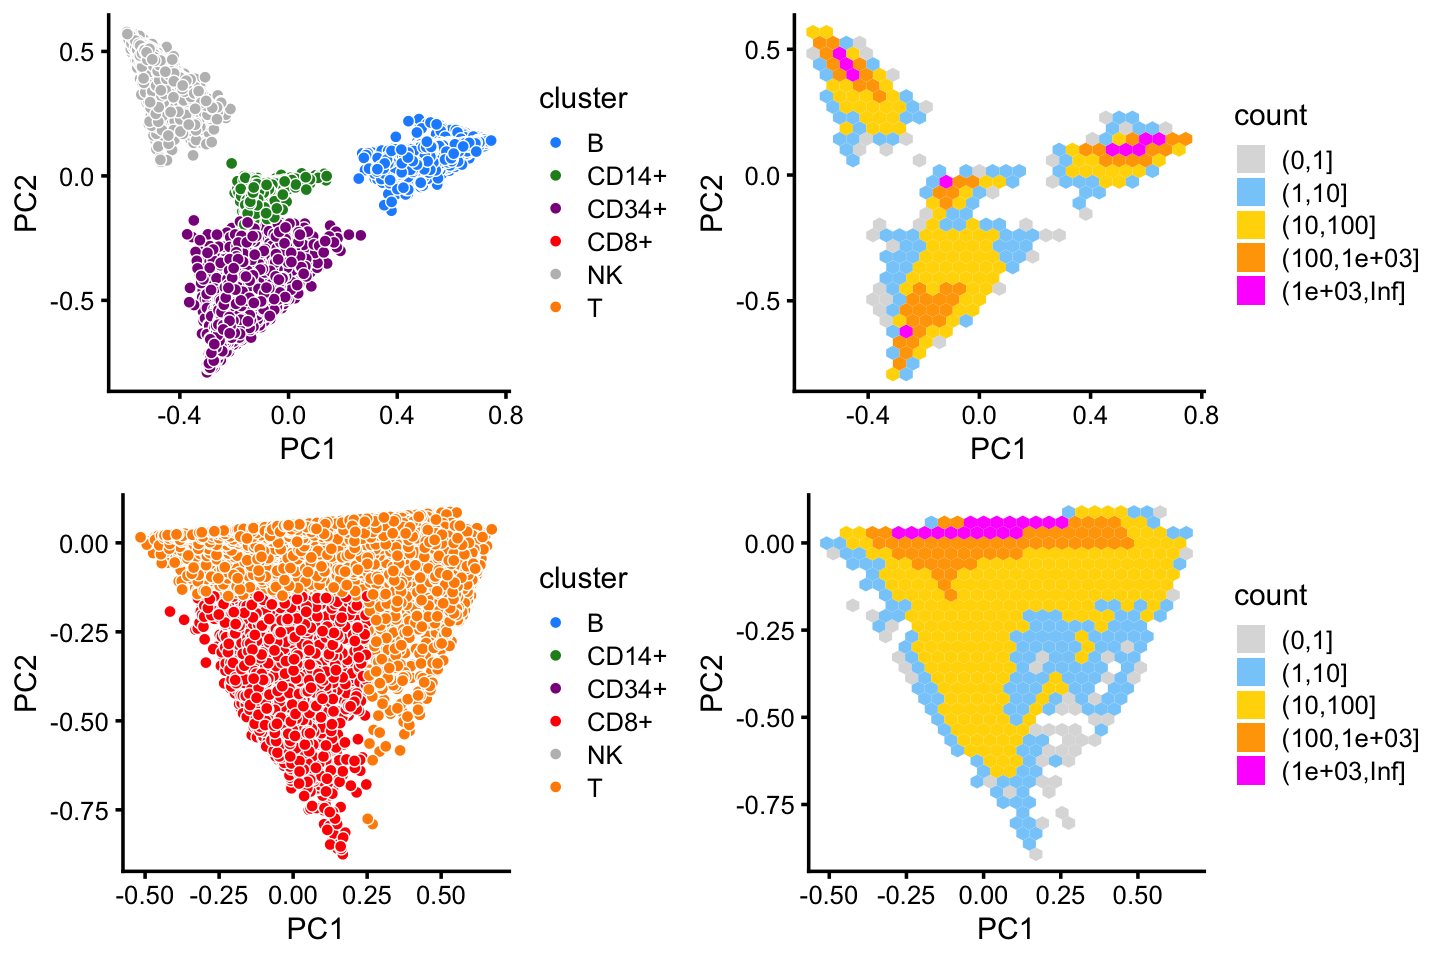
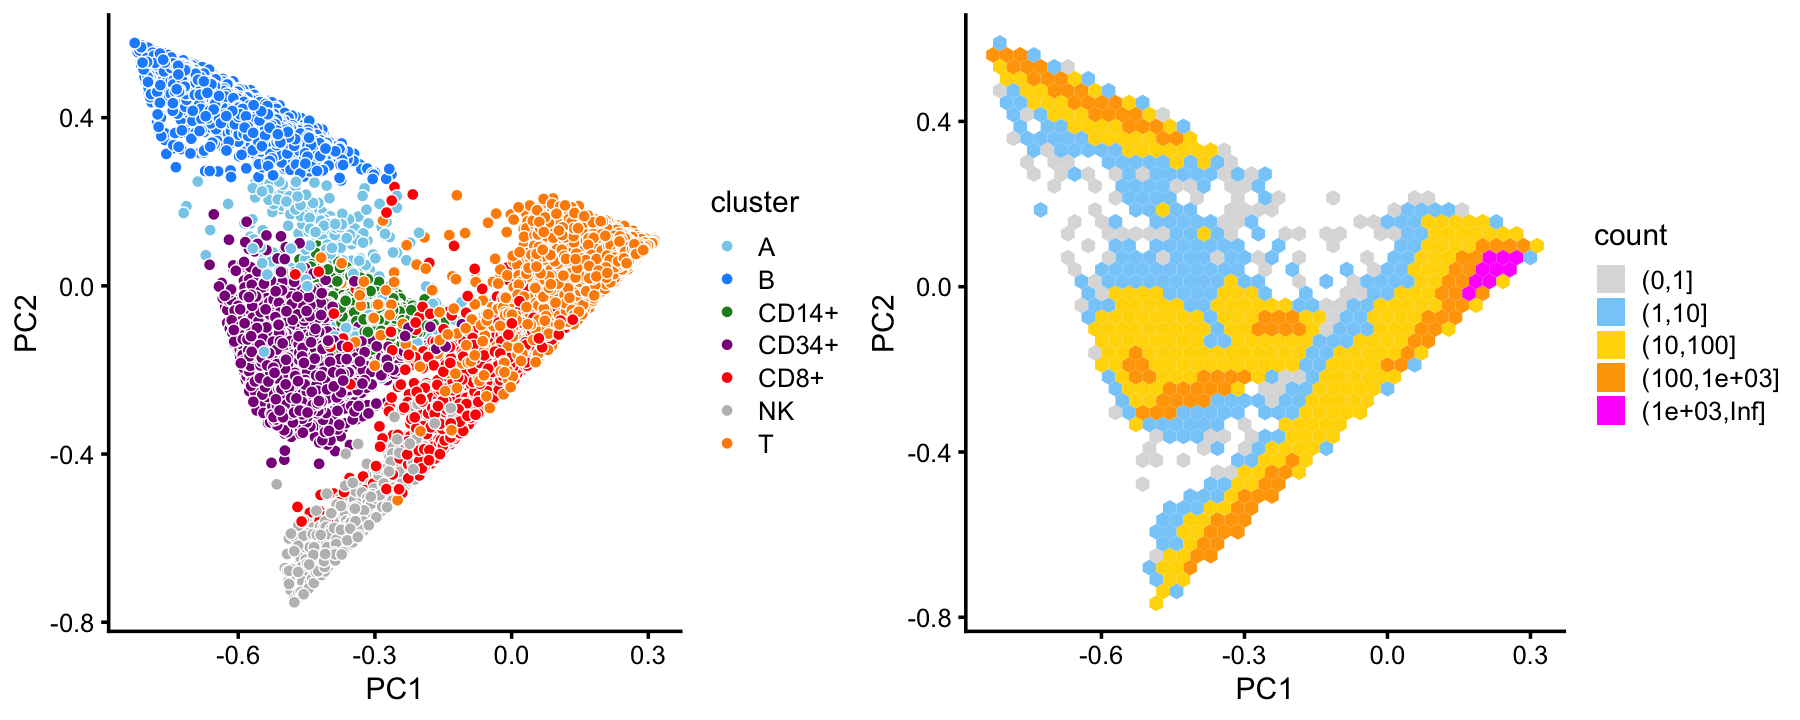
Added a cluster to the purified PBMC clustering.

diff --git a/docs/clusters_purified_pbmc.html b/docs/clusters_purified_pbmc.html
@@ -323,7 +323,7 @@ $(document).ready(function () {
 <div class="tab-content">
 <div id="summary" class="tab-pane fade in active">
 <p>
-<strong>Last updated:</strong> 2020-11-23
+<strong>Last updated:</strong> 2020-11-26
 </p>
 <p>
 <strong>Checks:</strong> <span class="glyphicon glyphicon-ok text-success" aria-hidden="true"></span> 7 <span class="glyphicon glyphicon-exclamation-sign text-danger" aria-hidden="true"></span> 0
@@ -414,16 +414,16 @@ This reproducible <a href="http://rmarkdown.rstudio.com">R Markdown</a> analysis
 <div class="panel panel-default">
 <div class="panel-heading">
 <p class="panel-title">
-<a data-toggle="collapse" data-parent="#workflowr-checks" href="#strongRepositoryversionstrongahrefhttpsgithubcomstephenslabsinglecelltopicstree9389b774ce058e238f6c96110c4969564e14db34targetblank9389b77a"> <span class="glyphicon glyphicon-ok text-success" aria-hidden="true"></span> <strong>Repository version:</strong> <a href="https://github.com/stephenslab/single-cell-topics/tree/9389b774ce058e238f6c96110c4969564e14db34" target="_blank">9389b77</a> </a>
+<a data-toggle="collapse" data-parent="#workflowr-checks" href="#strongRepositoryversionstrongahrefhttpsgithubcomstephenslabsinglecelltopicstree989e7ac79196a3cd999d035e9c34d3c9bb48e2c7targetblank989e7aca"> <span class="glyphicon glyphicon-ok text-success" aria-hidden="true"></span> <strong>Repository version:</strong> <a href="https://github.com/stephenslab/single-cell-topics/tree/989e7ac79196a3cd999d035e9c34d3c9bb48e2c7" target="_blank">989e7ac</a> </a>
 </p>
 </div>
[2 lines of base64/hex data omitted]
 <div class="panel-body">
 <p>
 Great! You are using Git for version control. Tracking code development and connecting the code version to the results is critical for reproducibility.
 </p>
 <p>
-The results in this page were generated with repository version <a href="https://github.com/stephenslab/single-cell-topics/tree/9389b774ce058e238f6c96110c4969564e14db34" target="_blank">9389b77</a>. See the <em>Past versions</em> tab to see a history of the changes made to the R Markdown and HTML files.
+The results in this page were generated with repository version <a href="https://github.com/stephenslab/single-cell-topics/tree/989e7ac79196a3cd999d035e9c34d3c9bb48e2c7" target="_blank">989e7ac</a>. See the <em>Past versions</em> tab to see a history of the changes made to the R Markdown and HTML files.
 </p>
 <p>
 Note that you need to be careful to ensure that all relevant files for the analysis have been committed to Git prior to generating the results (you can use <code>wflow_publish</code> or <code>wflow_git_commit</code>). workflowr only checks the R Markdown file, but you know if there are other scripts or data files that it depends on. Below is the status of the Git repository when the results were generated:
@@ -444,6 +444,13 @@ Ignored files:
     Ignored:    output/pulseseq/diff-count-pulseseq.RData
     Ignored:    output/pulseseq/fits-pulseseq.RData
     Ignored:    output/pulseseq/rds/
+
+Untracked files:
+    Untracked:  analysis/clustering-pbmc-purified.rds
+    Untracked:  analysis/diff-count-pbmc-purified.RData
+
+Unstaged changes:
+    Modified:   analysis/plots_for_paper_pbmc_purified.R
 
 </code></pre>
 <p>
@@ -482,6 +489,40 @@ Message
 </tr>
 </thead>
 <tbody>
+<tr>
+<td>
+Rmd
+</td>
+<td>
+<a href="https://github.com/stephenslab/single-cell-topics/blob/989e7ac79196a3cd999d035e9c34d3c9bb48e2c7/analysis/clusters_purified_pbmc.Rmd" target="_blank">989e7ac</a>
+</td>
+<td>
+Peter Carbonetto
+</td>
+<td>
+2020-11-26
+</td>
+<td>
+workflowr::wflow_publish(“clusters_purified_pbmc.Rmd”)
+</td>
+</tr>
+<tr>
+<td>
+html
+</td>
+<td>
+<a href="https://rawcdn.githack.com/stephenslab/single-cell-topics/c85de93a4e651b0cdf7ce12b1417690a49120e0b/docs/clusters_purified_pbmc.html" target="_blank">c85de93</a>
+</td>
+<td>
+Peter Carbonetto
+</td>
+<td>
+2020-11-23
+</td>
+<td>
+Build site.
+</td>
+</tr>
 <tr>
 <td>
 Rmd
@@ -739,7 +780,7 @@ pc5 &lt;- pca[,5]
 x[pc2 &gt; 0.25] &lt;- &quot;B&quot;
 x[pc3 &lt; -0.2 &amp; pc4 &lt; 0.2] &lt;- &quot;CD34+&quot;
 x[(pc4 + 0.1)^2 + (pc5 - 0.8)^2 &lt; 0.07] &lt;- &quot;CD14+&quot;</code></pre>
-<p>Next, we define an NK cells cluster from the top 2 PCs of the topic proportions in the U (“unknown”) cells.</p>
+<p>Next, we define an NK cells cluster from the top 2 PCs of the topic proportions in the U cluster.</p>
 <pre class="r"><code>rows &lt;- which(x == &quot;U&quot;)
 n    &lt;- length(rows)
 fit2 &lt;- select(poisson2multinom(fit),loadings = rows)
@@ -747,7 +788,10 @@ pca  &lt;- prcomp(fit2$L)$x
 y    &lt;- rep(&quot;U&quot;,n)
 pc1  &lt;- pca[,1]
 pc2  &lt;- pca[,2]
+pc3  &lt;- pca[,3]
+pc4  &lt;- pca[,4]
 y[pc1 &lt; -0.3 &amp; 1.1*pc1 &lt; -pc2 - 0.57] &lt;- &quot;NK&quot;
+y[pc3 &gt; 0.4 &amp; pc4 &lt; 0.2] &lt;- &quot;A&quot;
 x[rows] &lt;- y</code></pre>
 <p>Among the remaining cells, we define a much less distinct cluster of CD8+ cells. The rest are labeled as T-cells.</p>
 <pre class="r"><code>rows &lt;- which(x == &quot;U&quot;)
@@ -759,25 +803,21 @@ pc1  &lt;- pca[,1]
 pc2  &lt;- pca[,2]
 y[pc1 &lt; 0.25 &amp; pc2 &lt; -0.15] &lt;- &quot;CD8+&quot;
 x[rows] &lt;- y</code></pre>
-<p>In summary, we have subdivided the cells into 6 subsets. The substructure becomes more clear when we plot T cells separately from the other cells.</p>
-<pre class="r"><code>cluster_colors &lt;- c(&quot;dodgerblue&quot;,&quot;forestgreen&quot;,&quot;darkmagenta&quot;,
-                    &quot;red&quot;,&quot;gray&quot;,&quot;darkorange&quot;)
+<p>In summary, we have subdivided the cells into 7 subsets. The substructure becomes more clear when we plot T cells separately from the other cells.</p>
+<pre class="r"><code>cluster_colors &lt;- c(&quot;skyblue&quot;,     # A
+                    &quot;dodgerblue&quot;,  # B-cells
+                    &quot;forestgreen&quot;, # CD14+
+                    &quot;darkmagenta&quot;, # CD34+ 
+                    &quot;red&quot;,         # CD8+
+                    &quot;gray&quot;,        # NK
+                    &quot;darkorange&quot;)  # T-cells
 samples$cluster &lt;- factor(x)
-x     &lt;- with(samples,cluster == &quot;T&quot; | cluster == &quot;CD8+&quot;)
-rows1 &lt;- which(!x)
-rows2 &lt;- which(x)
-p1 &lt;- pca_plot(select(poisson2multinom(fit),loadings = rows1),
-               fill = samples$cluster[rows1]) +
-  scale_fill_manual(values = cluster_colors,drop = FALSE) +
+p1 &lt;- pca_plot(poisson2multinom(fit),fill = samples$cluster) +
+  scale_fill_manual(values = cluster_colors) +
   labs(fill = &quot;cluster&quot;)
-p2 &lt;- pca_plot(select(poisson2multinom(fit),loadings = rows2),
-               fill = samples$cluster[rows2,drop = FALSE]) +
-  scale_fill_manual(values = cluster_colors,drop = FALSE) +
-  labs(fill = &quot;cluster&quot;)
-p3 &lt;- pca_hexbin_plot(select(poisson2multinom(fit),loadings = rows1),bins = 28)
-p4 &lt;- pca_hexbin_plot(select(poisson2multinom(fit),loadings = rows2),bins = 28)
-plot_grid(p1,p3,p2,p4,nrow = 2,ncol = 2,rel_widths = c(10,11))</code></pre>
-<p><img src="figure/clusters_purified_pbmc.Rmd/clustering-4-1.png" width="720" style="display: block; margin: auto;" /></p>
+p2 &lt;- pca_hexbin_plot(poisson2multinom(fit))
+plot_grid(p1,p2,rel_widths = c(10,11))</code></pre>
+<p><img src="figure/clusters_purified_pbmc.Rmd/clustering-4-1.png" width="900" style="display: block; margin: auto;" /></p>
 <p>
 <button type="button" class="btn btn-default btn-xs btn-workflowr btn-workflowr-fig" data-toggle="collapse" data-target="#fig-clustering-4-1">
 Past versions of clustering-4-1.png
@@ -818,17 +858,17 @@ Peter Carbonetto
 <p>This clustering corresponds closely to the Zheng <em>et al</em> (2017) FACS cell populations, although there are some differences—for example, the CD14+ cluster contains a large number of cells identified as CD34+ by FACS.</p>
 <pre class="r"><code>with(samples,table(celltype,cluster))
 #                               cluster
-# celltype                           B CD14+ CD34+  CD8+    NK     T
-#   CD19+ B                      10073     0     0     8     0     4
-#   CD14+ Monocyte                   8  2420     0   138     0    46
-#   CD34+                          352   536  8182   141     4    17
-#   CD4+ T Helper2                   0     0     8    49     1 11155
-#   CD56+ NK                         0     0    17    86  8279     3
-#   CD8+ Cytotoxic T                 0     0     0  3093    93  7023
-#   CD4+/CD45RO+ Memory              0     0    20   343     0  9861
-#   CD8+/CD45RA+ Naive Cytotoxic     3     0     0    53     2 11895
-#   CD4+/CD45RA+/CD25- Naive T       1     0     8    30     1 10439
-#   CD4+/CD25 T Reg                  2     0     2    25     0 10234</code></pre>
+# celltype                           A     B CD14+ CD34+  CD8+    NK     T
+#   CD19+ B                          7 10073     0     0     3     0     2
+#   CD14+ Monocyte                 156     8  2420     0     3     0    25
+#   CD34+                          121   352   536  8182    20     4    17
+#   CD4+ T Helper2                   9     0     0     8    45     1 11150
+#   CD56+ NK                         4     0     0    17    82  8279     3
+#   CD8+ Cytotoxic T                 0     0     0     0  3146    93  6970
+#   CD4+/CD45RO+ Memory              1     0     0    20   355     0  9848
+#   CD8+/CD45RA+ Naive Cytotoxic     2     3     0     0    52     2 11894
+#   CD4+/CD45RA+/CD25- Naive T       5     1     0     8    27     1 10437
+#   CD4+/CD25 T Reg                  3     2     0     2    24     0 10232</code></pre>
 <p>This close correspondence is also apparent when we layer the FACS cell population labels on the PCA plots:</p>
 <pre class="r"><code>facs_colors &lt;- c(&quot;dodgerblue&quot;,  # B-cells
                  &quot;forestgreen&quot;, # CD14+
@@ -840,16 +880,11 @@ Peter Carbonetto
                  &quot;magenta&quot;,     # naive cytotoxic 
                  &quot;darkorange&quot;,  # naive T-cells
                  &quot;gold&quot;)        # regulatory T-cells
-p1 &lt;- pca_plot(select(poisson2multinom(fit),loadings = rows1),
-               fill = samples[rows1,&quot;celltype&quot;]) +
+p3 &lt;- pca_plot(poisson2multinom(fit),fill = samples$celltype) +
   scale_fill_manual(values = facs_colors) +
   labs(fill = &quot;FACS subtype&quot;)
-p2 &lt;- pca_plot(select(poisson2multinom(fit),loadings = rows2),
-               fill = samples[rows2,&quot;celltype&quot;]) +
-  scale_fill_manual(values = facs_colors) +
-  labs(fill = &quot;FACS subtype&quot;)
-plot_grid(p1,p2)</code></pre>
-<p><img src="figure/clusters_purified_pbmc.Rmd/clustering-6-1.png" width="960" style="display: block; margin: auto;" /></p>
+print(p3)</code></pre>
+<p><img src="figure/clusters_purified_pbmc.Rmd/clustering-6-1.png" width="600" style="display: block; margin: auto;" /></p>
 <p>
 <button type="button" class="btn btn-default btn-xs btn-workflowr btn-workflowr-fig" data-toggle="collapse" data-target="#fig-clustering-6-1">
 Past versions of clustering-6-1.png
@@ -895,11 +930,11 @@ d_topics  &lt;- totalvardist(poisson2multinom(fit)$F)</code></pre>
 <pre class="r"><code>pdat &lt;-
   rbind(data.frame(method = &quot;zheng.et.al&quot;,d = d_zheng[upper.tri(d_zheng)]),
         data.frame(method = &quot;topics&quot;,     d = d_topics[upper.tri(d_topics)]))
-p3 &lt;- ggplot(pdat,aes(x = method,y = d)) +
+p4 &lt;- ggplot(pdat,aes(x = method,y = d)) +
   geom_boxplot(width = 0.25) +
   labs(x = &quot;&quot;,y = &quot;total variation dist&quot;) +
   theme_cowplot(font_size = 9)
-print(p3)</code></pre>
+print(p4)</code></pre>
 <p><img src="figure/clusters_purified_pbmc.Rmd/clustering-8-1.png" width="240" style="display: block; margin: auto;" /></p>
 <p>
 <button type="button" class="btn btn-default btn-xs btn-workflowr btn-workflowr-fig" data-toggle="collapse" data-target="#fig-clustering-8-1">
@@ -943,21 +978,22 @@ Peter Carbonetto
 <h2>Structure plot</h2>
 <p>The structure plot summarizes the topic proportions in each of these 6 subsets:</p>
 <pre class="r"><code>set.seed(1)
-topic_colors &lt;- c(&quot;gold&quot;,&quot;forestgreen&quot;,&quot;dodgerblue&quot;,&quot;gray&quot;,&quot;darkmagenta&quot;,
-                  &quot;violet&quot;)
+topic_colors &lt;- c(&quot;gold&quot;,&quot;forestgreen&quot;,&quot;dodgerblue&quot;,&quot;gray&quot;,
+                  &quot;darkmagenta&quot;,&quot;violet&quot;)
 topics &lt;- c(5,3,2,4,1,6)
 rows &lt;- sort(c(sample(which(samples$cluster == &quot;B&quot;),1000),
                sample(which(samples$cluster == &quot;CD14+&quot;),300),
                sample(which(samples$cluster == &quot;CD34+&quot;),500),
+               which(samples$cluster == &quot;A&quot;),
                sample(which(samples$cluster == &quot;CD8+&quot;),400),
                sample(which(samples$cluster == &quot;NK&quot;),500),
                sample(which(samples$cluster == &quot;T&quot;),1000)))
-p3 &lt;- structure_plot(select(poisson2multinom(fit),loadings = rows),
+p5 &lt;- structure_plot(select(poisson2multinom(fit),loadings = rows),
                      grouping = samples[rows,&quot;cluster&quot;],
                      topics = topics,colors = topic_colors[topics],
-                     perplexity = c(70,30,30,30,30,70),
+                     perplexity = c(70,30,30,30,30,30,70),
                      n = Inf,gap = 50,num_threads = 4,verbose = FALSE)
-print(p3)</code></pre>
+print(p5)</code></pre>
 <p><img src="figure/clusters_purified_pbmc.Rmd/structure-plot-1.png" width="960" style="display: block; margin: auto;" /></p>
 <p>
 <button type="button" class="btn btn-default btn-xs btn-workflowr btn-workflowr-fig" data-toggle="collapse" data-target="#fig-structure-plot-1">
@@ -1012,21 +1048,21 @@ rows &lt;- which(with(samples,
 rows &lt;- sort(sample(rows,2000))
 fit2 &lt;- select(poisson2multinom(fit),loadings = rows)
 x    &lt;- samples$cluster[rows,drop = TRUE]
-p4   &lt;- pca_plot(fit2,fill = x) + labs(fill = &quot;cluster&quot;)</code></pre>
+p6   &lt;- pca_plot(fit2,fill = x) + labs(fill = &quot;cluster&quot;)</code></pre>
 <p>Next, run <em>t</em>-SNE on the topic proportions.</p>
 <pre class="r"><code>tsne &lt;- Rtsne(fit2$L,dims = 2,pca = FALSE,normalize = FALSE,perplexity = 100,
               theta = 0.1,max_iter = 1000,eta = 200,verbose = FALSE)
 tsne$x &lt;- tsne$Y
 colnames(tsne$x) &lt;- c(&quot;tsne1&quot;,&quot;tsne2&quot;)
-p5 &lt;- pca_plot(fit2,out.pca = tsne,fill = x) + labs(fill = &quot;cluster&quot;)</code></pre>
+p7 &lt;- pca_plot(fit2,out.pca = tsne,fill = x) + labs(fill = &quot;cluster&quot;)</code></pre>
 <p>Then run UMAP on the topic proportions.</p>
 <pre class="r"><code>out.umap &lt;- umap(fit2$L,n_neighbors = 30,metric = &quot;euclidean&quot;,n_epochs = 1000,
                  min_dist = 0.1,scale = &quot;none&quot;,learning_rate = 1,
                  verbose = FALSE)
 out.umap &lt;- list(x = out.umap)
 colnames(out.umap$x) &lt;- c(&quot;umap1&quot;,&quot;umap2&quot;)
-p6 &lt;- pca_plot(fit2,out.pca = out.umap,fill = x) + labs(fill = &quot;cluster&quot;)</code></pre>
-<pre class="r"><code>plot_grid(p4,p5,p6,nrow = 1)</code></pre>
+p8 &lt;- pca_plot(fit2,out.pca = out.umap,fill = x) + labs(fill = &quot;cluster&quot;)</code></pre>
+<pre class="r"><code>plot_grid(p6,p7,p8,nrow = 1)</code></pre>
 <p><img src="figure/clusters_purified_pbmc.Rmd/pca-vs-tsne-1.png" width="960" style="display: block; margin: auto;" /></p>
 <p>
 <button type="button" class="btn btn-default btn-xs btn-workflowr btn-workflowr-fig" data-toggle="collapse" data-target="#fig-pca-vs-tsne-1">
